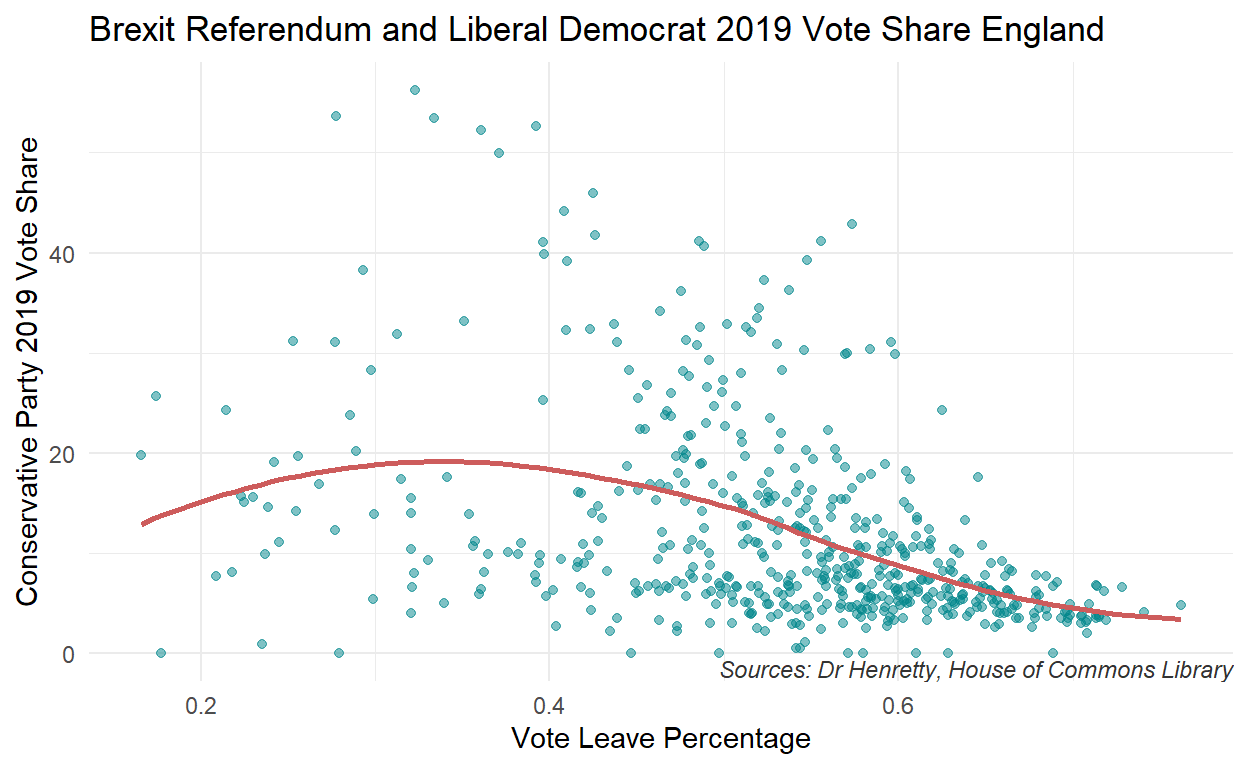
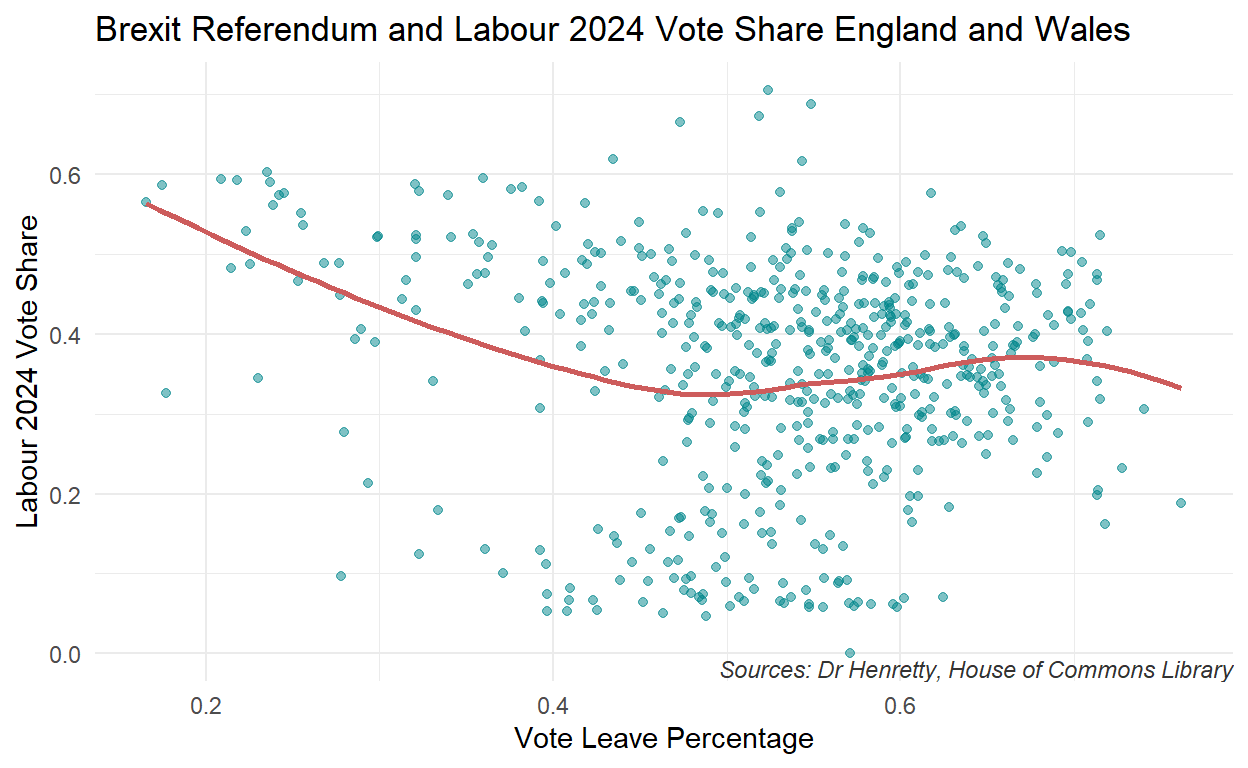
Updated final project

diff --git a/index.html b/index.html
@@ -1545,13 +1545,14 @@ code span.wa { color: #5e5e5e; font-style: italic; } /* Warning */
 <div class="d-article">
 <h2 id="introduction">Introduction</h2>
 <p>During the 2024 general election in the UK, Reform UK (formally the Brexit Party) ran on a platform of limiting immigration and removing Britain from certain European institutions which would appeal to areas that voted to leave the EU in the Brexit Referendum while discouraging people that voted “Remain” from voting for them as it would go against their preferences stay more aligned with the EU. The Conservatives ran on similar issues on reducing immigration with some members arguing for the withdraw from European institutions, although to a lesser extent and more moderate. Many of their members also campaigned for leaving the EU during the referendum, which, like Reform UK, would appeal to areas that largely voted to leave the EU.</p>
-<p>The Liberal Democrats, on the other hand, campaigned for Remain during the referendum and during the election supported the UK eventually rejoining the EU. This would have the opposite effect of Reform UK and the Conservatives in constituencies that largely voted for Leave, with those constituencies not having much support for the Liberal Democrats. Instead, the Liberal Democrats pro-EU policies would appeal to areas that had a lower share that voted for Leave.</p>
-<p>Is there a relationship between how people voted in the 2016 Brexit Referendum in the UK and the 2024 UK general election? For this question, I hypothesis that constituencies that had a higher vote share for Leave in the Brexit Referendum had a higher vote share for the Reform UK and Conservative party in the 2024 general election. Also, I hypothesis that the constituencies that had a higher vote share for Leave will have a lower vote share for the Liberal Democrats in the election.</p>
+<p>The Liberal Democrats and Greens, on the other hand, campaigned for Remain during the referendum and during the election supported the UK rejoining EU institutions and eventually rejoining the EU. These party positions would have the opposite effect of Reform UK and the Conservatives in constituencies that largely voted for leave, with those constituencies not having much support for the Liberal Democrats. Instead, the Liberal Democrats and Greens pro-EU policies would appeal to areas that had a lower share that voted leave.</p>
+<p>Likewise, the Labour Party leaned towards supporting Remain, but to a lesser extent and didn’t support rejoining the EU in the 2024 election. As such, Labour’s more moderate position in the EU wouldn’t have much of an effect in areas that voted leave in the referendum</p>
+<p>Is there a relationship between how people voted in the 2016 Brexit Referendum in the UK and the 2024 UK general election? For this question, I hypothesis that constituencies that had a higher vote share for leave in the Brexit Referendum had a higher vote share for the Reform UK and Conservative party in the 2024 general election. Also, the constituencies that had a higher vote share for leave will have a lower vote share for the Liberal Democrats and Greens. Finally, there isn’t any significant relationship between leave vote share and the vote share for Labour in the election.</p>
 <p>This hypothesis is intriguing as much of the Conservative Party and the Reform Party (formally the Brexit Party) campaigned for the UK to leave the EU in the 2016 Brexit referendum. As such, seeing how voters in each constituency voted in the Brexit referendum compared to how they voted in the general election could give interesting insight into the relationship between Brexit and party vote share. It could also help explain voting patterns in the elections and why voters chose certain parties based on how they voted in the referendum.</p>
 <p>This question is important because the Brexit referendum was a hugely consequential election in the UK and Europe as a whole, beginning the process of the UK leaving the European Union. As such, its important to study how voters the voted leave in the referendum voted in subsequent elections to get a better understanding of the British electorate and how Brexit could still be affecting British politics.</p>
 <h2 id="data-organization">Data Organization</h2>
 <p>The data for this project came from Dr. Henretty, who created a dataset that estimated how each constituency (post-2023 borders) voted in the Brexit referendum. The 2024 general election data came from the House of Commons Library. The project’s variables are measured using a statistical model The independent variable for this project is the election, specifically between the 2016 referendum and the 2024 general election. The dependent variable is how each constituency voted in each party and in particular the party vote share for Reform UK and the Conservatives. This project will only look at constituencies in England and Wales as the party systems in Scotland and Northern Ireland have significant differences.</p>
-<p>The explanatory variable for this project are the constituencies of England and Wales. The outcome variable is the vote share for Leave in the Brexit Referendum and party vote share in each constituency in the 2024 general election. The hypothesis would be supported if there is a positive correlation between the vote share of Leave in the Brexit Referendum and the vote share of Reform UK and the Conservatives in the 2024 general election as well as if there is a nagetive correlation between vote share of Leave in the referendum and the vote share of the Liberal Democrats in the 2024 election.</p>
+<p>The explanatory variable for this project are the constituencies of England and Wales. The outcome variable is the vote share for leave in the Brexit Referendum and party vote share in each constituency in the 2024 general election. The hypothesis would be supported if there is a positive correlation between the vote share of leave in the Brexit Referendum and the vote share of Reform UK and the Conservatives in the 2024 general election. It would also be supported if there is a negative correlation between vote share of leave in the referendum and the vote share of the Liberal Democrats in the 2024 election and no meaniful realtionship between leave and Labour vote share.</p>
 <h2 id="packages-used">Packages Used</h2>
 <div class="layout-chunk" data-layout="l-body">
 <div class="sourceCode">
@@ -1589,35 +1590,14 @@ code span.wa { color: #5e5e5e; font-style: italic; } /* Warning */
 <span>  <span class='fu'><a href='https://dplyr.tidyverse.org/reference/mutate.html'>mutate</a></span><span class='op'>(</span></span>
 <span>    Con_share <span class='op'>=</span> <span class='va'>Con</span> <span class='op'>/</span> <span class='va'>`Valid votes`</span>,</span>
 <span>Reform_share <span class='op'>=</span> <span class='va'>RUK</span> <span class='op'>/</span> <span class='va'>`Valid votes`</span>,</span>
-<span>LD_share <span class='op'>=</span> <span class='va'>LD</span> <span class='op'>/</span> <span class='va'>`Valid votes`</span></span>
+<span>LD_share <span class='op'>=</span> <span class='va'>LD</span> <span class='op'>/</span> <span class='va'>`Valid votes`</span>,</span>
+<span>PC_share <span class='op'>=</span> <span class='va'>PC</span> <span class='op'>/</span> <span class='va'>`Valid votes`</span>,</span>
+<span>Green_share <span class='op'>=</span> <span class='va'>Green</span> <span class='op'>/</span> <span class='va'>`Valid votes`</span>,</span>
+<span>Lab_share <span class='op'>=</span> <span class='va'>Lab</span> <span class='op'>/</span> <span class='va'>`Valid votes`</span></span>
 <span><span class='op'>)</span></span></code></pre>
 </div>
 </div>
 <h2 id="data">Data</h2>
-<p>2024 Conservative Vote Share and Vote Leave Plot</p>
-<div class="layout-chunk" data-layout="l-body">
-<div class="sourceCode">
-<pre class="sourceCode r"><code class="sourceCode r"><span><span class='va'>ENG_WLS_results</span> <span class='op'>|&gt;</span></span>
-<span>  <span class='fu'><a href='https://dplyr.tidyverse.org/reference/filter.html'>filter</a></span><span class='op'>(</span><span class='va'>Con_share</span> <span class='op'>&gt;</span> <span class='fl'>0</span><span class='op'>)</span> <span class='op'>|&gt;</span></span>
-<span><span class='fu'><a href='https://ggplot2.tidyverse.org/reference/ggplot.html'>ggplot</a></span><span class='op'>(</span>data <span class='op'>=</span> <span class='va'>ENG_WLS_results</span>, mapping <span class='op'>=</span> <span class='fu'><a href='https://ggplot2.tidyverse.org/reference/aes.html'>aes</a></span><span class='op'>(</span>x <span class='op'>=</span> <span class='va'>LeavePct</span>, y <span class='op'>=</span> <span class='va'>Con_share</span><span class='op'>)</span><span class='op'>)</span> <span class='op'>+</span></span>
-<span>  <span class='fu'><a href='https://ggplot2.tidyverse.org/reference/geom_point.html'>geom_point</a></span><span class='op'>(</span>color <span class='op'>=</span> <span class='st'>"turquoise4"</span>, alpha <span class='op'>=</span> <span class='fl'>.5</span><span class='op'>)</span> <span class='op'>+</span></span>
-<span>  <span class='fu'><a href='https://ggplot2.tidyverse.org/reference/geom_smooth.html'>geom_smooth</a></span><span class='op'>(</span>color <span class='op'>=</span> <span class='st'>"indianred"</span>, se <span class='op'>=</span> <span class='cn'>FALSE</span><span class='op'>)</span> <span class='op'>+</span></span>
-<span>  <span class='fu'><a href='https://ggplot2.tidyverse.org/reference/labs.html'>labs</a></span><span class='op'>(</span></span>
-<span>    x <span class='op'>=</span> <span class='st'>"Vote Leave Percentage"</span>,</span>
-<span>    y <span class='op'>=</span> <span class='st'>"Conservative Party 2024 Vote Share"</span>,</span>
-<span>  title <span class='op'>=</span> <span class='st'>"Brexit Referendum and 2024 Conservative Party Vote Share England and Wales"</span></span>
-<span>  <span class='op'>)</span> <span class='op'>+</span></span>
-<span>   <span class='fu'><a href='https://ggplot2.tidyverse.org/reference/annotate.html'>annotate</a></span><span class='op'>(</span></span>
-<span>    <span class='st'>"text"</span>, </span>
-<span>    x <span class='op'>=</span> <span class='cn'>Inf</span>, y <span class='op'>=</span> <span class='op'>-</span><span class='cn'>Inf</span>, </span>
-<span>    label <span class='op'>=</span> <span class='st'>"Sources: Dr Henretty, House of Commons Library"</span>, </span>
-<span>    hjust <span class='op'>=</span> <span class='fl'>1</span>, vjust <span class='op'>=</span> <span class='op'>-</span><span class='fl'>.25</span>, </span>
-<span>    size <span class='op'>=</span> <span class='fl'>3</span>, color <span class='op'>=</span> <span class='st'>"gray20"</span>, fontface <span class='op'>=</span> <span class='st'>"italic"</span></span>
-<span>  <span class='op'>)</span> <span class='op'>+</span></span>
-<span>  <span class='fu'><a href='https://ggplot2.tidyverse.org/reference/ggtheme.html'>theme_minimal</a></span><span class='op'>(</span><span class='op'>)</span></span></code></pre>
-</div>
-<p><img src="index_files/figure-html5/unnamed-chunk-4-1.png" width="624" /></p>
-</div>
 <p>2024 Reform Vote Share and Vote Leave Plot</p>
 <div class="layout-chunk" data-layout="l-body">
 <div class="sourceCode">
@@ -1640,9 +1620,33 @@ code span.wa { color: #5e5e5e; font-style: italic; } /* Warning */
 <span>  <span class='op'>)</span> <span class='op'>+</span></span>
 <span>  <span class='fu'><a href='https://ggplot2.tidyverse.org/reference/ggtheme.html'>theme_minimal</a></span><span class='op'>(</span><span class='op'>)</span></span></code></pre>
 </div>
+<p><img src="index_files/figure-html5/unnamed-chunk-4-1.png" width="624" /></p>
+</div>
+<p>2024 Conservative Vote Share and Vote Leave Plot</p>
+<div class="layout-chunk" data-layout="l-body">
+<div class="sourceCode">
+<pre class="sourceCode r"><code class="sourceCode r"><span><span class='va'>ENG_WLS_results</span> <span class='op'>|&gt;</span></span>
+<span>  <span class='fu'><a href='https://dplyr.tidyverse.org/reference/filter.html'>filter</a></span><span class='op'>(</span><span class='va'>Con_share</span> <span class='op'>&gt;</span> <span class='fl'>0</span><span class='op'>)</span> <span class='op'>|&gt;</span></span>
+<span><span class='fu'><a href='https://ggplot2.tidyverse.org/reference/ggplot.html'>ggplot</a></span><span class='op'>(</span>data <span class='op'>=</span> <span class='va'>ENG_WLS_results</span>, mapping <span class='op'>=</span> <span class='fu'><a href='https://ggplot2.tidyverse.org/reference/aes.html'>aes</a></span><span class='op'>(</span>x <span class='op'>=</span> <span class='va'>LeavePct</span>, y <span class='op'>=</span> <span class='va'>Con_share</span><span class='op'>)</span><span class='op'>)</span> <span class='op'>+</span></span>
+<span>  <span class='fu'><a href='https://ggplot2.tidyverse.org/reference/geom_point.html'>geom_point</a></span><span class='op'>(</span>color <span class='op'>=</span> <span class='st'>"turquoise4"</span>, alpha <span class='op'>=</span> <span class='fl'>.5</span><span class='op'>)</span> <span class='op'>+</span></span>
+<span>  <span class='fu'><a href='https://ggplot2.tidyverse.org/reference/geom_smooth.html'>geom_smooth</a></span><span class='op'>(</span>color <span class='op'>=</span> <span class='st'>"indianred"</span>, se <span class='op'>=</span> <span class='cn'>FALSE</span><span class='op'>)</span> <span class='op'>+</span></span>
+<span>  <span class='fu'><a href='https://ggplot2.tidyverse.org/reference/labs.html'>labs</a></span><span class='op'>(</span></span>
+<span>    x <span class='op'>=</span> <span class='st'>"Vote Leave Percentage"</span>,</span>
+<span>    y <span class='op'>=</span> <span class='st'>"Conservative Party 2024 Vote Share"</span>,</span>
+<span>  title <span class='op'>=</span> <span class='st'>"Brexit Referendum and 2024 Conservative Party Vote Share England and Wales"</span></span>
+<span>  <span class='op'>)</span> <span class='op'>+</span></span>
+<span>   <span class='fu'><a href='https://ggplot2.tidyverse.org/reference/annotate.html'>annotate</a></span><span class='op'>(</span></span>
+<span>    <span class='st'>"text"</span>, </span>
+<span>    x <span class='op'>=</span> <span class='cn'>Inf</span>, y <span class='op'>=</span> <span class='op'>-</span><span class='cn'>Inf</span>, </span>
+<span>    label <span class='op'>=</span> <span class='st'>"Sources: Dr Henretty, House of Commons Library"</span>, </span>
+<span>    hjust <span class='op'>=</span> <span class='fl'>1</span>, vjust <span class='op'>=</span> <span class='op'>-</span><span class='fl'>.25</span>, </span>
+<span>    size <span class='op'>=</span> <span class='fl'>3</span>, color <span class='op'>=</span> <span class='st'>"gray20"</span>, fontface <span class='op'>=</span> <span class='st'>"italic"</span></span>
+<span>  <span class='op'>)</span> <span class='op'>+</span></span>
+<span>  <span class='fu'><a href='https://ggplot2.tidyverse.org/reference/ggtheme.html'>theme_minimal</a></span><span class='op'>(</span><span class='op'>)</span></span></code></pre>
+</div>
 <p><img src="index_files/figure-html5/unnamed-chunk-5-1.png" width="624" /></p>
 </div>
-<p>2024 Liberal Democrats and Vote Remain Plot</p>
+<p>2024 Liberal Democrats Vote Share and Vote Leave Plot</p>
 <div class="layout-chunk" data-layout="l-body">
 <div class="sourceCode">
 <pre class="sourceCode r"><code class="sourceCode r"><span><span class='va'>ENG_WLS_results</span> <span class='op'>|&gt;</span></span>
@@ -1665,6 +1669,54 @@ code span.wa { color: #5e5e5e; font-style: italic; } /* Warning */
 <span>  <span class='fu'><a href='https://ggplot2.tidyverse.org/reference/ggtheme.html'>theme_minimal</a></span><span class='op'>(</span><span class='op'>)</span></span></code></pre>
 </div>
 <p><img src="index_files/figure-html5/unnamed-chunk-6-1.png" width="624" /></p>
+</div>
+<p>2024 Green Vote Share and Vote Leave Plot</p>
+<div class="layout-chunk" data-layout="l-body">
+<div class="sourceCode">
+<pre class="sourceCode r"><code class="sourceCode r"><span><span class='va'>ENG_WLS_results</span> <span class='op'>|&gt;</span></span>
+<span>   <span class='fu'><a href='https://dplyr.tidyverse.org/reference/filter.html'>filter</a></span><span class='op'>(</span><span class='va'>Green_share</span> <span class='op'>&gt;</span> <span class='fl'>0</span><span class='op'>)</span> <span class='op'>|&gt;</span></span>
+<span><span class='fu'><a href='https://ggplot2.tidyverse.org/reference/ggplot.html'>ggplot</a></span><span class='op'>(</span>data <span class='op'>=</span> <span class='va'>ENG_WLS_results</span>, mapping <span class='op'>=</span> <span class='fu'><a href='https://ggplot2.tidyverse.org/reference/aes.html'>aes</a></span><span class='op'>(</span>x <span class='op'>=</span> <span class='va'>LeavePct</span>, y <span class='op'>=</span> <span class='va'>Green_share</span><span class='op'>)</span><span class='op'>)</span> <span class='op'>+</span></span>
+<span>  <span class='fu'><a href='https://ggplot2.tidyverse.org/reference/geom_point.html'>geom_point</a></span><span class='op'>(</span>color <span class='op'>=</span> <span class='st'>"turquoise4"</span>, alpha <span class='op'>=</span> <span class='fl'>.5</span><span class='op'>)</span> <span class='op'>+</span></span>
+<span>  <span class='fu'><a href='https://ggplot2.tidyverse.org/reference/geom_smooth.html'>geom_smooth</a></span><span class='op'>(</span>color <span class='op'>=</span> <span class='st'>"indianred"</span>, se <span class='op'>=</span> <span class='cn'>FALSE</span><span class='op'>)</span> <span class='op'>+</span></span>
+<span>  <span class='fu'><a href='https://ggplot2.tidyverse.org/reference/labs.html'>labs</a></span><span class='op'>(</span></span>
+<span>    x <span class='op'>=</span> <span class='st'>"Vote Leave Percentage"</span>,</span>
+<span>    y <span class='op'>=</span> <span class='st'>"Green 2024 Vote Share"</span>,</span>
+<span>  title <span class='op'>=</span> <span class='st'>"Brexit Referendum and Green 2024 Vote Share England and Wales"</span></span>
+<span>  <span class='op'>)</span> <span class='op'>+</span></span>
+<span>   <span class='fu'><a href='https://ggplot2.tidyverse.org/reference/annotate.html'>annotate</a></span><span class='op'>(</span></span>
+<span>    <span class='st'>"text"</span>, </span>
+<span>    x <span class='op'>=</span> <span class='cn'>Inf</span>, y <span class='op'>=</span> <span class='op'>-</span><span class='cn'>Inf</span>, </span>
+<span>    label <span class='op'>=</span> <span class='st'>"Sources: Dr Henretty, House of Commons Library"</span>, </span>
+<span>    hjust <span class='op'>=</span> <span class='fl'>1</span>, vjust <span class='op'>=</span> <span class='op'>-</span><span class='fl'>.25</span>, </span>
+<span>    size <span class='op'>=</span> <span class='fl'>3</span>, color <span class='op'>=</span> <span class='st'>"gray20"</span>, fontface <span class='op'>=</span> <span class='st'>"italic"</span></span>
+<span>  <span class='op'>)</span> <span class='op'>+</span></span>
+<span>  <span class='fu'><a href='https://ggplot2.tidyverse.org/reference/ggtheme.html'>theme_minimal</a></span><span class='op'>(</span><span class='op'>)</span></span></code></pre>
+</div>
+<p><img src="index_files/figure-html5/unnamed-chunk-7-1.png" width="624" /></p>
+</div>
+<p>2024 Labour Vote Share and Vote Leave Plot</p>
+<div class="layout-chunk" data-layout="l-body">
+<div class="sourceCode">
+<pre class="sourceCode r"><code class="sourceCode r"><span><span class='va'>ENG_WLS_results</span> <span class='op'>|&gt;</span></span>
+<span>   <span class='fu'><a href='https://dplyr.tidyverse.org/reference/filter.html'>filter</a></span><span class='op'>(</span><span class='va'>Lab_share</span> <span class='op'>&gt;</span> <span class='fl'>0</span><span class='op'>)</span> <span class='op'>|&gt;</span></span>
+<span><span class='fu'><a href='https://ggplot2.tidyverse.org/reference/ggplot.html'>ggplot</a></span><span class='op'>(</span>data <span class='op'>=</span> <span class='va'>ENG_WLS_results</span>, mapping <span class='op'>=</span> <span class='fu'><a href='https://ggplot2.tidyverse.org/reference/aes.html'>aes</a></span><span class='op'>(</span>x <span class='op'>=</span> <span class='va'>LeavePct</span>, y <span class='op'>=</span> <span class='va'>Lab_share</span><span class='op'>)</span><span class='op'>)</span> <span class='op'>+</span></span>
+<span>  <span class='fu'><a href='https://ggplot2.tidyverse.org/reference/geom_point.html'>geom_point</a></span><span class='op'>(</span>color <span class='op'>=</span> <span class='st'>"turquoise4"</span>, alpha <span class='op'>=</span> <span class='fl'>.5</span><span class='op'>)</span> <span class='op'>+</span></span>
+<span>  <span class='fu'><a href='https://ggplot2.tidyverse.org/reference/geom_smooth.html'>geom_smooth</a></span><span class='op'>(</span>color <span class='op'>=</span> <span class='st'>"indianred"</span>, se <span class='op'>=</span> <span class='cn'>FALSE</span><span class='op'>)</span> <span class='op'>+</span></span>
+<span>  <span class='fu'><a href='https://ggplot2.tidyverse.org/reference/labs.html'>labs</a></span><span class='op'>(</span></span>
+<span>    x <span class='op'>=</span> <span class='st'>"Vote Leave Percentage"</span>,</span>
+<span>    y <span class='op'>=</span> <span class='st'>"Labour 2024 Vote Share"</span>,</span>
+<span>  title <span class='op'>=</span> <span class='st'>"Brexit Referendum and Labour 2024 Vote Share England and Wales"</span></span>
+<span>  <span class='op'>)</span> <span class='op'>+</span></span>
+<span>   <span class='fu'><a href='https://ggplot2.tidyverse.org/reference/annotate.html'>annotate</a></span><span class='op'>(</span></span>
+<span>    <span class='st'>"text"</span>, </span>
+<span>    x <span class='op'>=</span> <span class='cn'>Inf</span>, y <span class='op'>=</span> <span class='op'>-</span><span class='cn'>Inf</span>, </span>
+<span>    label <span class='op'>=</span> <span class='st'>"Sources: Dr Henretty, House of Commons Library"</span>, </span>
+<span>    hjust <span class='op'>=</span> <span class='fl'>1</span>, vjust <span class='op'>=</span> <span class='op'>-</span><span class='fl'>.25</span>, </span>
+<span>    size <span class='op'>=</span> <span class='fl'>3</span>, color <span class='op'>=</span> <span class='st'>"gray20"</span>, fontface <span class='op'>=</span> <span class='st'>"italic"</span></span>
+<span>  <span class='op'>)</span> <span class='op'>+</span></span>
+<span>  <span class='fu'><a href='https://ggplot2.tidyverse.org/reference/ggtheme.html'>theme_minimal</a></span><span class='op'>(</span><span class='op'>)</span></span></code></pre>
+</div>
+<p><img src="index_files/figure-html5/unnamed-chunk-8-1.png" width="624" /></p>
 </div>
 <p>Multiple Regression Models</p>
 <div class="layout-chunk" data-layout="l-body">
@@ -1708,15 +1760,52 @@ code span.wa { color: #5e5e5e; font-style: italic; } /* Warning */
 </tbody>
 </table>
 </div>
-<p>Liberal Democrats</p>
 <div class="layout-chunk" data-layout="l-body">
 <div class="sourceCode">
-<pre class="sourceCode r"><code class="sourceCode r"><span><span class='va'>Reform_Con_multreg</span> <span class='op'>&lt;-</span> <span class='fu'><a href='https://rdrr.io/r/stats/lm.html'>lm</a></span><span class='op'>(</span><span class='va'>LeavePct</span> <span class='op'>~</span> <span class='va'>LD_share</span> <span class='op'>+</span> <span class='va'>Con_share</span>, data <span class='op'>=</span> <span class='va'>ENG_WLS_results</span><span class='op'>)</span></span></code></pre>
+<pre class="sourceCode r"><code class="sourceCode r"><span><span class='va'>LD_Green_multreg</span> <span class='op'>&lt;-</span> <span class='fu'><a href='https://rdrr.io/r/stats/lm.html'>lm</a></span><span class='op'>(</span><span class='va'>LeavePct</span> <span class='op'>~</span> <span class='va'>LD_share</span> <span class='op'>+</span> <span class='va'>Green_share</span>, data <span class='op'>=</span> <span class='va'>ENG_WLS_results</span><span class='op'>)</span></span>
+<span></span>
+<span> <span class='fu'><a href='https://generics.r-lib.org/reference/tidy.html'>tidy</a></span><span class='op'>(</span><span class='va'>LD_Green_multreg</span><span class='op'>)</span> <span class='op'>|&gt;</span></span>
+<span>     <span class='fu'>knitr</span><span class='fu'>::</span><span class='fu'><a href='https://rdrr.io/pkg/knitr/man/kable.html'>kable</a></span><span class='op'>(</span>digits <span class='op'>=</span> <span class='fl'>3</span><span class='op'>)</span></span></code></pre>
 </div>
+<table>
+<thead>
+<tr class="header">
+<th style="text-align: left;">term</th>
+<th style="text-align: right;">estimate</th>
+<th style="text-align: right;">std.error</th>
+<th style="text-align: right;">statistic</th>
+<th style="text-align: right;">p.value</th>
+</tr>
+</thead>
+<tbody>
+<tr class="odd">
+<td style="text-align: left;">(Intercept)</td>
+<td style="text-align: right;">0.645</td>
+<td style="text-align: right;">0.008</td>
+<td style="text-align: right;">84.257</td>
+<td style="text-align: right;">0</td>
+</tr>
+<tr class="even">
+<td style="text-align: left;">LD_share</td>
+<td style="text-align: right;">-0.304</td>
+<td style="text-align: right;">0.029</td>
+<td style="text-align: right;">-10.518</td>
+<td style="text-align: right;">0</td>
+</tr>
+<tr class="odd">
+<td style="text-align: left;">Green_share</td>
+<td style="text-align: right;">-1.047</td>
+<td style="text-align: right;">0.069</td>
+<td style="text-align: right;">-15.125</td>
+<td style="text-align: right;">0</td>
+</tr>
+</tbody>
+</table>
 </div>
 <h2 id="data-interpretation">Data Interpretation</h2>
 <p>We can interpret from the regression model, that we can very confident that there is a relationship between vote leave percentage and the vote share for Reform UK and the Conservative Party. The regression model shows a p-value of approximately 0 for Reform vote share and Conservative Party when holding each others vote share constant.</p>
-<p>From the multiple regression model, it appears that the correlation between Reform UK vote share and vote leave percent is stronger than the relationship between the Conservative vote share and vote leave percent. This is apparent from the Reform share coefficient being around 1.16, which indicates that the average increase in Reform vote share is around 1.16% for each percent increase in vote leave share holding Conservative vote share fixed. In comparison, the Conservative vote share coefficient is only around 0.22, indicating that the average increase in Conservative vote share is around 0.22% for each percent increase in the share for vote leave holding Reform UK vote share fixed.</p>
+<p>From the multiple regression model, it appears that the correlation between Reform UK vote share and vote leave percent is stronger than the relationship between the Conservative vote share and vote leave percent. This is apparent from the Reform share coefficient being around 1.16 which indicates that the average increase in Reform vote share is around 1.16% for each percent increase in vote leave share holding Conservative vote share fixed. In comparison, the Conservative vote share coefficient is only around 0.22, indicating that the average increase in Conservative vote share is around 0.22% for each percent increase in the share for vote leave holding Reform UK vote share fixed.</p>
+<p>For the Liberal Democrats and Green multiple regression, it appears that there is a negative correlation between their vote share and leave vote share. The correlation appears to be stronger for the Greens, having a coefficient around -1.05, indicating that the average decrease in Green vote share is aorund 1.05% for every percent increase in leave vote share holding Liberal Democrat vote share.</p>
 <h2 id="conlusion">Conlusion</h2>
 <p>In conclusion, the data supports the hypothesis’ that</p>
 <div class="sourceCode" id="cb1"><pre class="sourceCode r distill-force-highlighting-css"><code class="sourceCode r"></code></pre></div>
